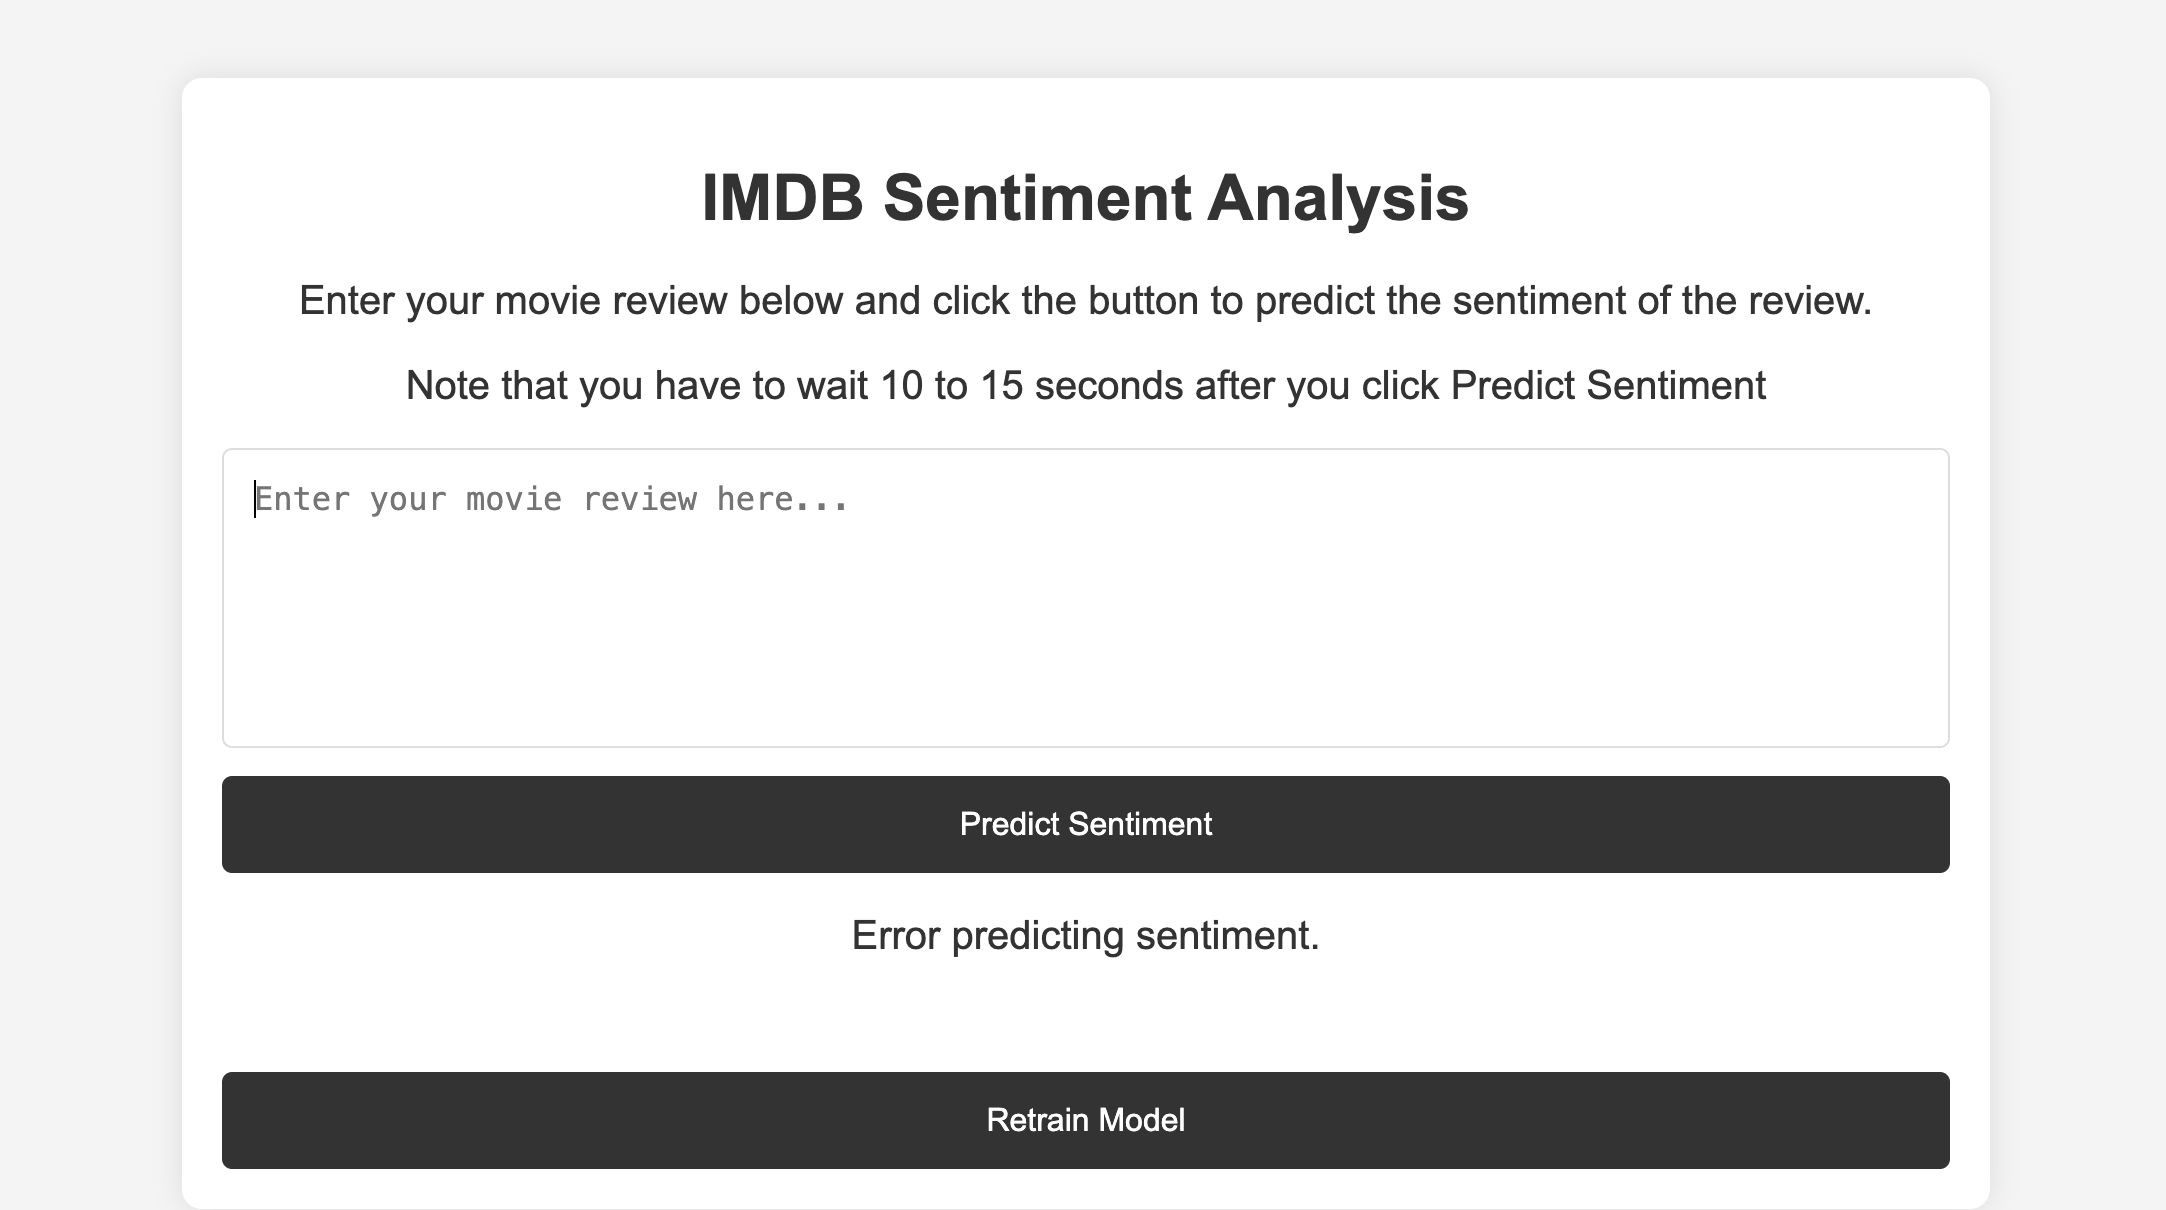
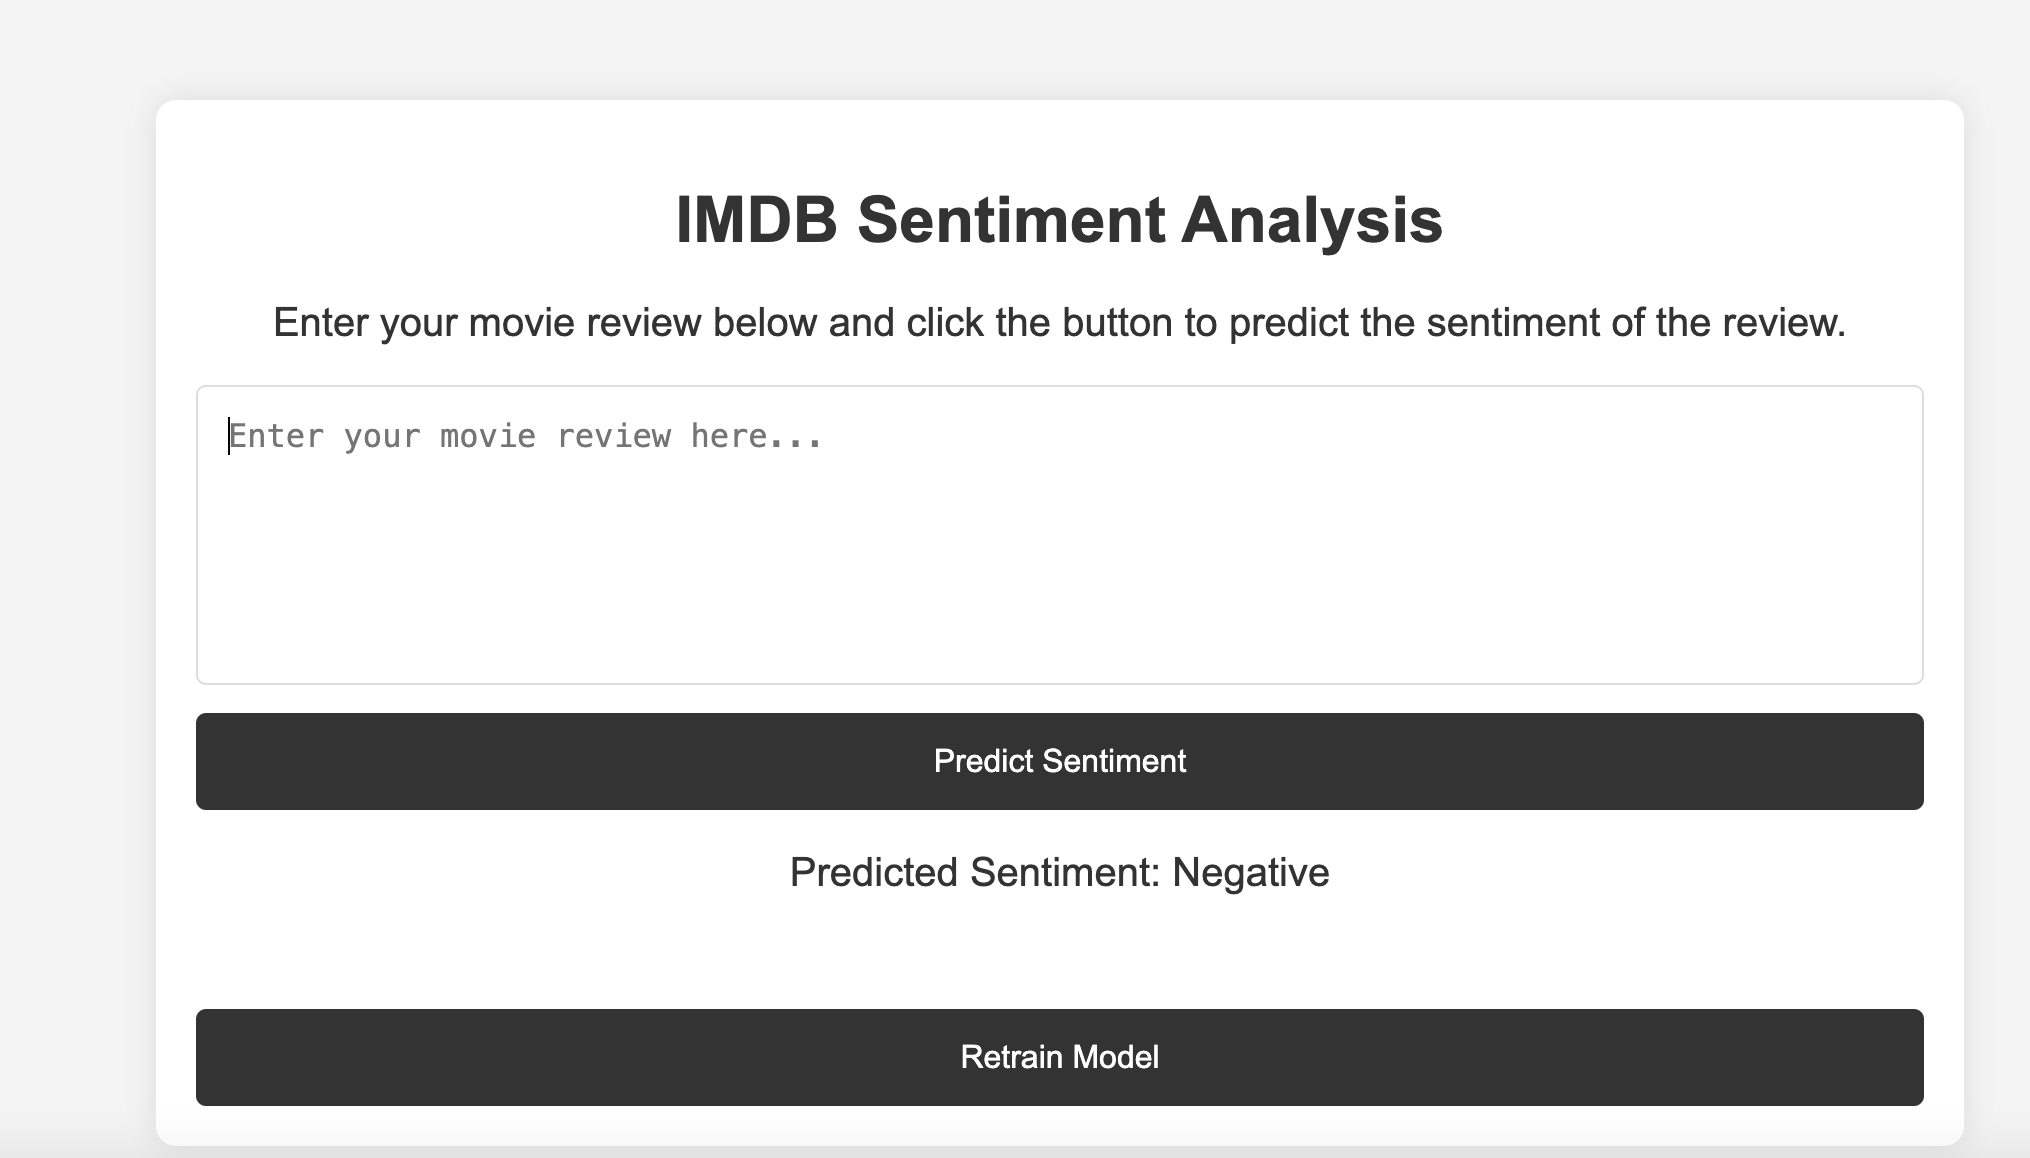
edited submission documents

diff --git a/frontend/index.html b/frontend/index.html
@@ -10,7 +10,6 @@
     <div class="container">
         <h1>IMDB Sentiment Analysis</h1>
         <p> Enter your movie review below and click the button to predict the sentiment of the review. </p>
-        <p> Note that you have to wait 10 to 15 seconds after you click Predict Sentiment</p>
         <textarea id="review" placeholder="Enter your movie review here..."></textarea>
         <button onclick="predictSentiment()">Predict Sentiment</button>
         <p id="result"></p>

diff --git a/submission.md b/submission.md
@@ -29,7 +29,7 @@ Build an AI web application for Sentiment Analysis.
     ```
 
 - Access the application in your browser:
-    Navigate to http://localhost:8000
+    Navigate to http://localhost:8000 or http://127.0.0.1:8000/
 
 - The following is what you should see
 
@@ -39,10 +39,10 @@ Build an AI web application for Sentiment Analysis.
     Note, if you do not retrain the model, and click <em>Predict Sentiment </em>, you will see an error. 
 
     ![terminal screenshot!](/terminal_screenshot.png)
-- Make a prediction by keying in a model review after training is complete
-    Note that you have to wait about 10 to 15 seconds after you click <em> Predict Sentiment </em>.
 
-- Watch the demo video [here](https://youtu.be/jl6s8ynE0bE)
+- Make a prediction by keying in a model review after training is complete
+
+- Watch the demo video [here](https://www.youtube.com/watch?v=ks0htbD0fmY)
 
 
 
@@ -50,3 +50,4 @@ Build an AI web application for Sentiment Analysis.
 # Additional Information
 - The application uses NLTK for text processing and Scikit-Learn for machine learning.
 - The model is trained on 50,000 IMDB movie reviews.
+- The model is saved and cached in memory. 
